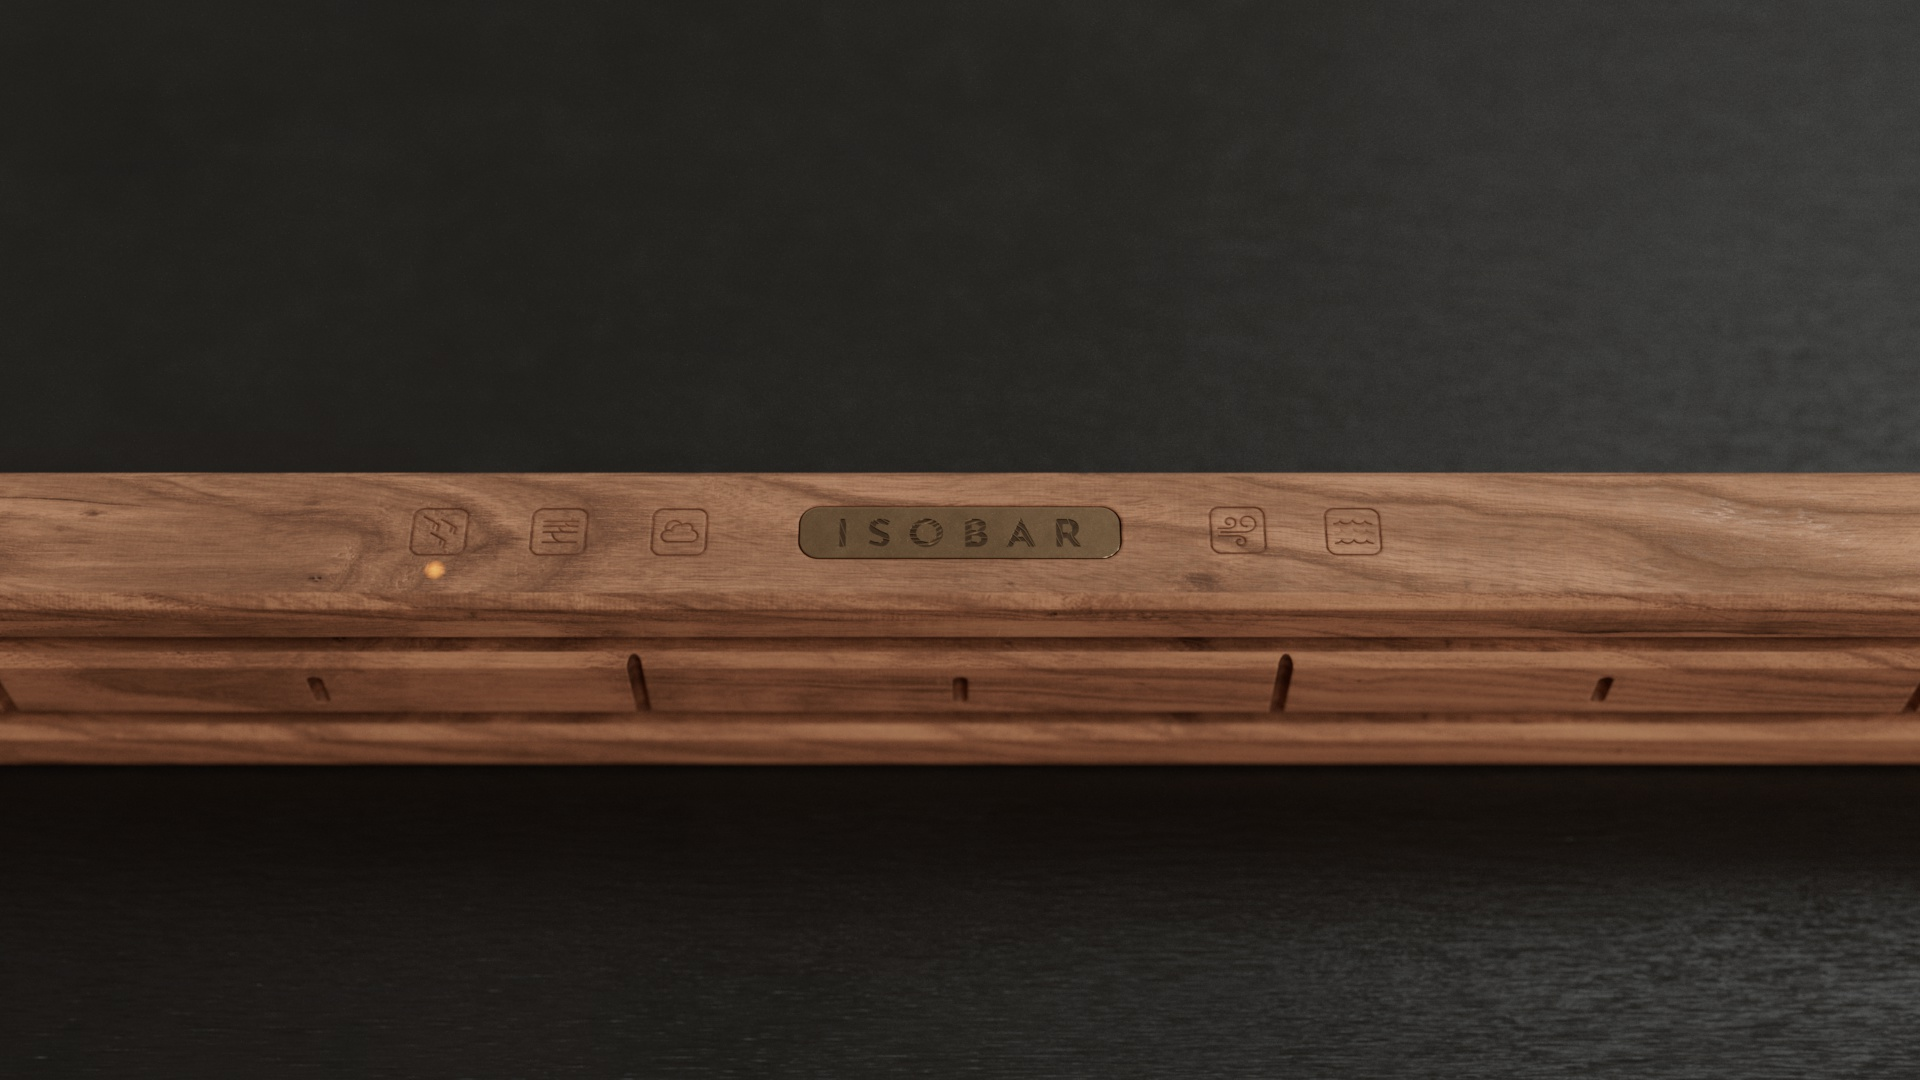
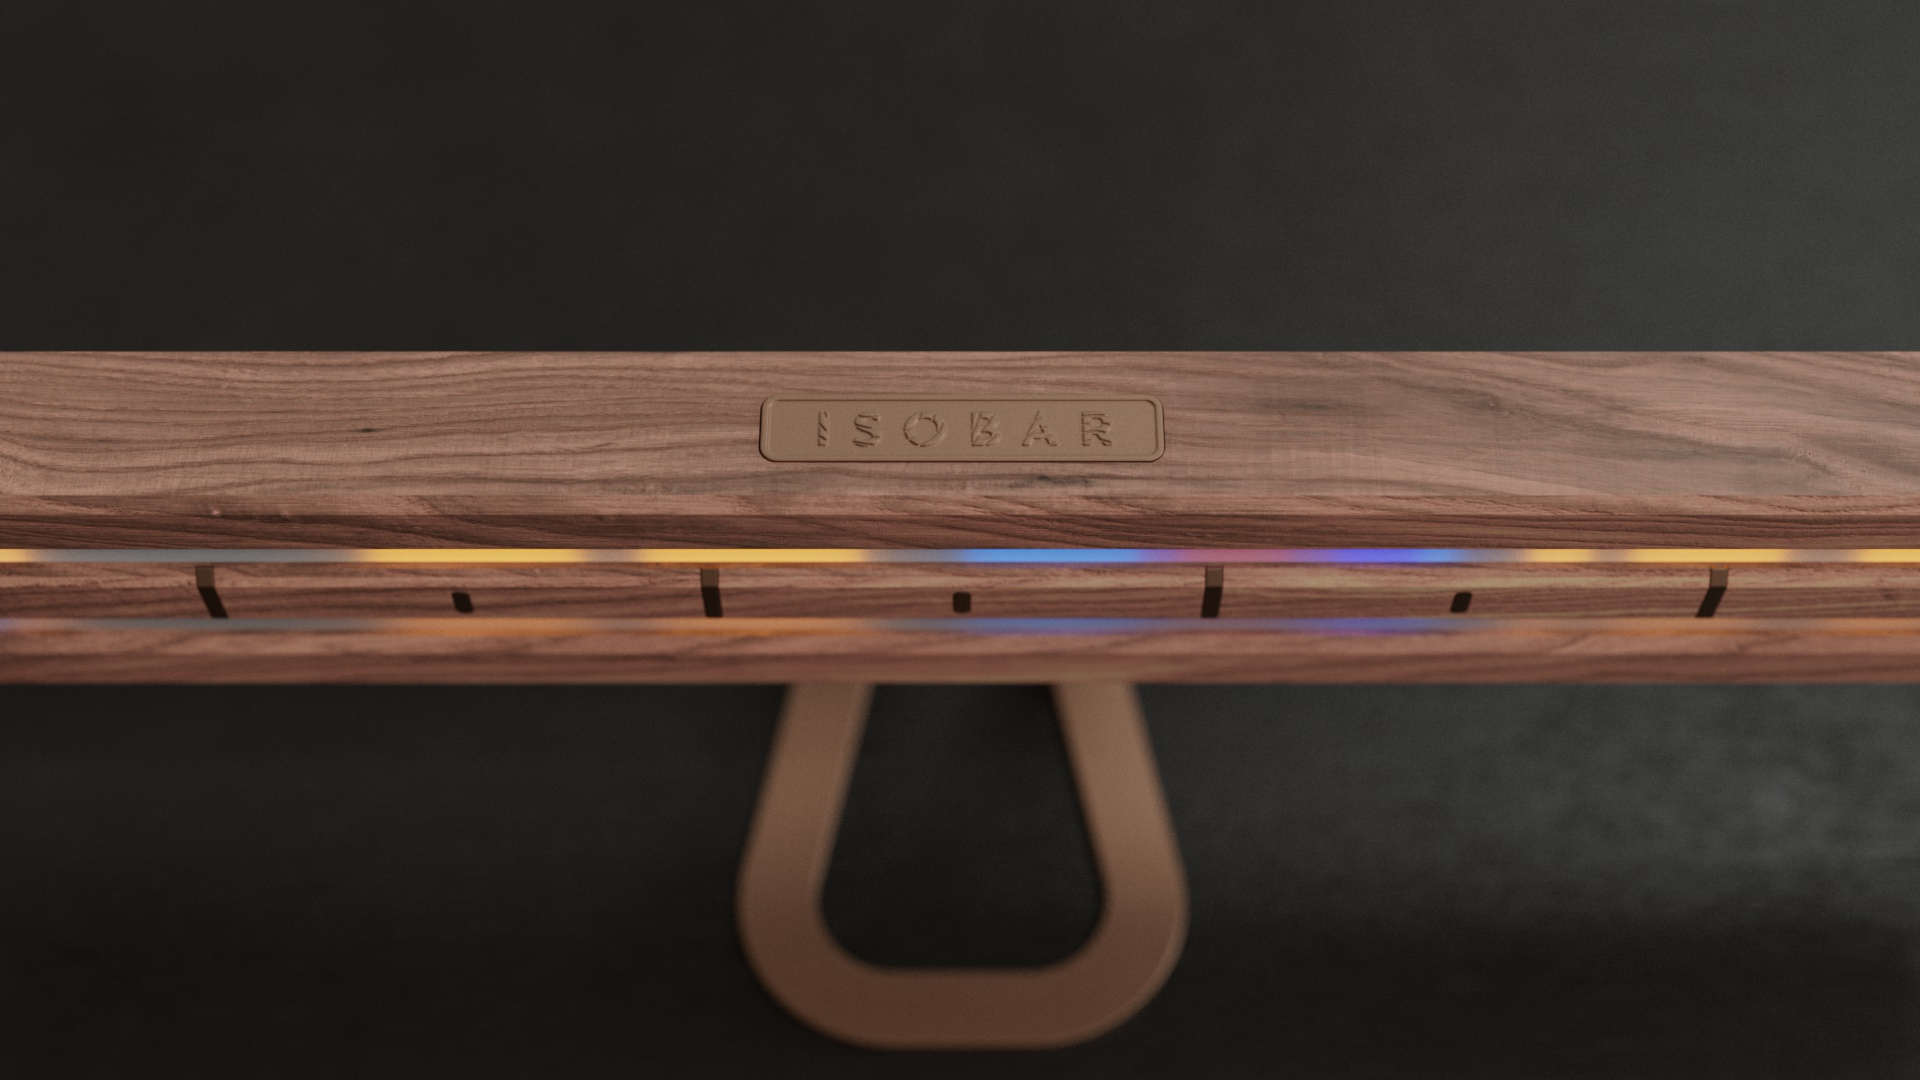
Sections: add new ISOBAR feature stills
Place the new close-up renders: I (ambient) in 01, G (in-context) in
03, F (front-on) in 04, C hero + D/E two-up in 05, H (timber) in 06.
Update C/D/E/H to the new renders; add F/G/I (allowlisted).

diff --git a/isobar/v2/index.html b/isobar/v2/index.html
@@ -192,6 +192,9 @@
   /* ── details / anatomy ── */
   .detail-hero{ margin-top:clamp(34px,5vw,60px); border:1px solid var(--line); border-radius:18px; overflow:hidden; aspect-ratio:16/7; }
   .detail-hero img{ width:100%; height:100%; object-fit:cover; display:block; }
+  .detail-duo{ margin-top:clamp(14px,1.8vw,22px); display:grid; grid-template-columns:1fr 1fr; gap:clamp(14px,1.8vw,22px); }
+  .detail-duo img{ width:100%; aspect-ratio:16/10; object-fit:cover; border:1px solid var(--line); border-radius:14px; display:block; }
+  @media(max-width:640px){ .detail-duo{ grid-template-columns:1fr; } }
   .detail-grid{ margin-top:clamp(28px,3.5vw,44px); display:grid; grid-template-columns:repeat(auto-fit,minmax(230px,1fr)); gap:clamp(20px,2.6vw,32px); }
   .detail{ display:flex; flex-direction:column; gap:8px; padding-top:18px; border-top:1px solid var(--line); }
   .detail .idx{ font-size:.72rem; letter-spacing:.2em; color:var(--ink-mute); }
@@ -317,6 +320,7 @@
         <p class="eyebrow">01 — The idea</p>
         <h2 class="h2">An instrument that knows what the days will hold.</h2>
         <p class="lede">No app to open. No screen to read. No notification to dismiss. ISOBAR sits on your wall and speaks the weather in colour — something you feel across the room rather than something you check.</p>
+        <div class="media filled"><img src="../Assets/Isobar_Feature_stills_Features_Close_I_V01_0000.jpg" alt="ISOBAR at home against a coastal view"></div>
       </div>
     </section>
 
@@ -355,7 +359,7 @@
         <h2 class="h2">And what's <em>happening now.</em></h2>
         <p class="lede">Stand ISOBAR upright and it leaves the forecast behind to show live conditions — the tide as it turns, the wind as it blows. Every ISOBAR is built ready for it; a stand is all it needs.</p>
         <p class="note">Several stands — and a wall mount — to choose from.</p>
-        <div class="media tall icon"><img src="../Assets/ISOBAR_icon_Live_tide_icon.svg" alt="Live tide"></div>
+        <div class="media filled"><img src="../Assets/Isobar_Feature_stills_Features_Close_G_V01_0000.jpg" alt="ISOBAR on its stand by a window, showing live conditions"></div>
       </div>
     </section>
 
@@ -365,7 +369,7 @@
         <p class="eyebrow">04 — The object</p>
         <h2 class="h2">Hand-finished, built to live with.</h2>
         <p class="lede">Solid timber. Touch to switch modes. Wall-mountable. It dims itself to the room, so it never asks for attention it doesn't need.</p>
-        <div class="media filled"><img src="../Assets/Isobar_Feature_stills_Features_Close_A_V01_0000.jpg" alt="ISOBAR detail"></div>
+        <div class="media filled"><img src="../Assets/Isobar_Feature_stills_Features_Close_F_V01_0000.jpg" alt="ISOBAR on its stand, front on"></div>
       </div>
     </section>
 
@@ -375,7 +379,11 @@
         <p class="eyebrow">05 — The details</p>
         <h2 class="h2">Considered, down to the edge.</h2>
         <p class="lede">Every part of ISOBAR earns its place — nothing to read, nothing to configure, nothing that asks for attention it doesn't need.</p>
-        <div class="detail-hero"><img src="../Assets/Isobar_Feature_stills_Features_Close_C_V01_0000.jpg" alt="ISOBAR detail"></div>
+        <div class="detail-hero"><img src="../Assets/Isobar_Feature_stills_Features_Close_C_V01_0000.jpg" alt="Engraved ISOBAR mark on the timber edge"></div>
+        <div class="detail-duo">
+          <img src="../Assets/Isobar_Feature_stills_Features_Close_D_V01_0000.jpg" alt="ISOBAR rounded end in solid timber">
+          <img src="../Assets/Isobar_Feature_stills_Features_Close_E_V01_0000.jpg" alt="ISOBAR light gradient close-up">
+        </div>
         <div class="detail-grid">
           <div class="detail"><span class="idx">01</span><h4>Day, midday &amp; midnight markers</h4><p>Fine indicators engraved into the face, so you can read where you are across the days at a single glance.</p></div>
           <div class="detail"><span class="idx">02</span><h4>Touch to switch modes</h4><p>A touch of the surface cycles through weather, wind, swell and live. No buttons, no menus.</p></div>
@@ -393,6 +401,7 @@
         <p class="eyebrow">06 — Sustainability</p>
         <h2 class="h2">Made to last, and to give back.</h2>
         <p class="lede">Every ISOBAR is cut from FSC-certified timber — responsibly grown and fully traceable. And for every instrument we sell, we plant a tree.</p>
+        <div class="media filled"><img src="../Assets/Isobar_Feature_stills_Features_Close_H_V01_0000.jpg" alt="ISOBAR hand-finished in solid timber"></div>
       </div>
     </section>
 
